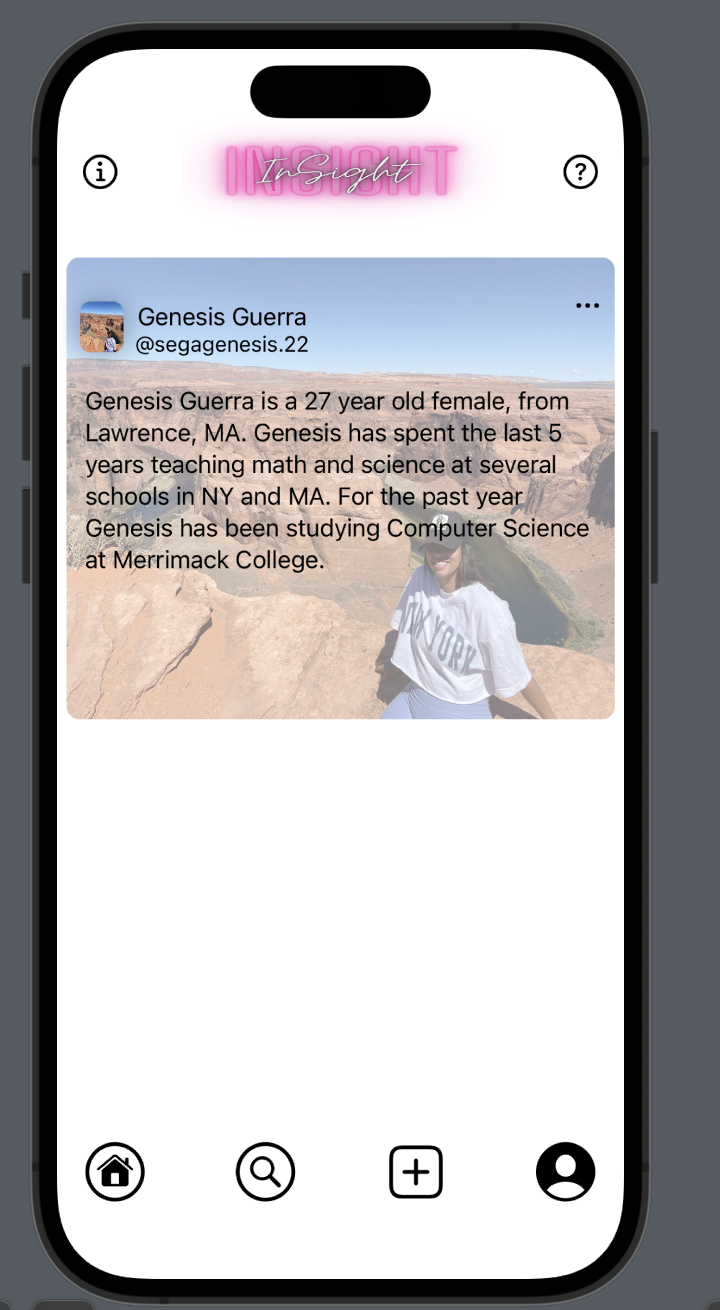
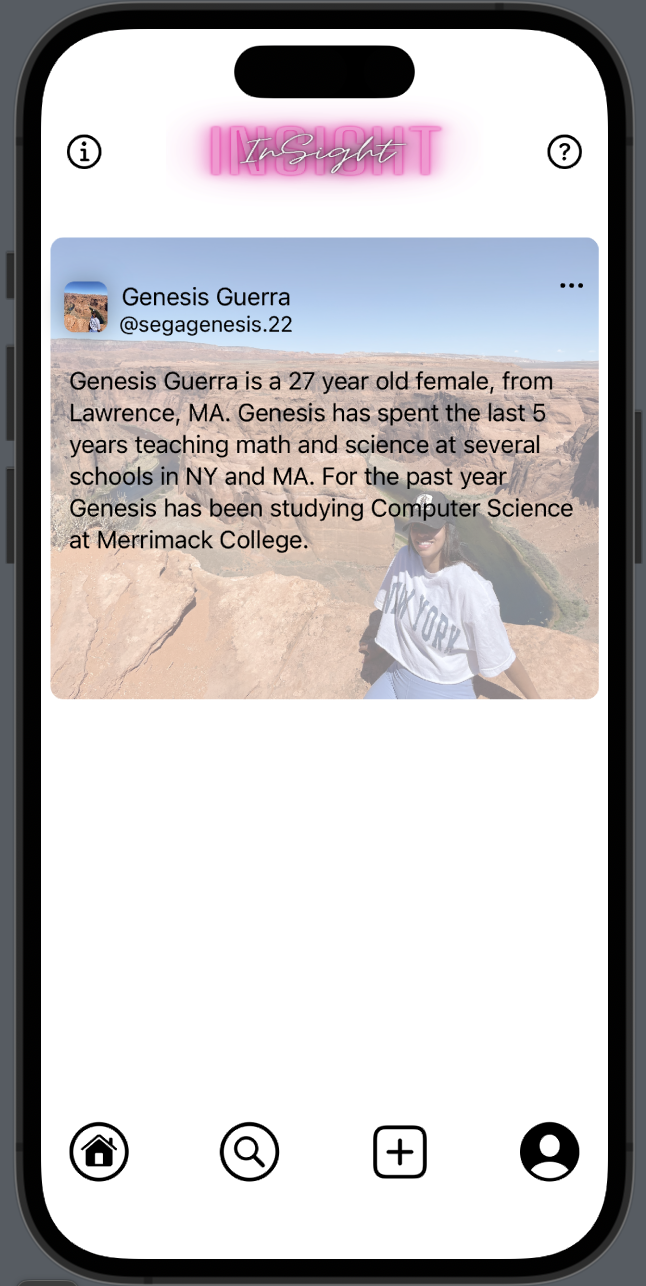
updated image

diff --git a/index.html b/index.html
@@ -52,7 +52,7 @@
         <div class="container">
             <div class="projects__container">
                 <div class="project__src">
-                    <img src="images/inSighApp.png" alt="picture of app" id="app__img">
+                    <img src="images/insightApp.png" alt="picture of app" id="app__img">
                     <div class="descriptions">
                         <h3>InSight App</h3>
                     </div>
